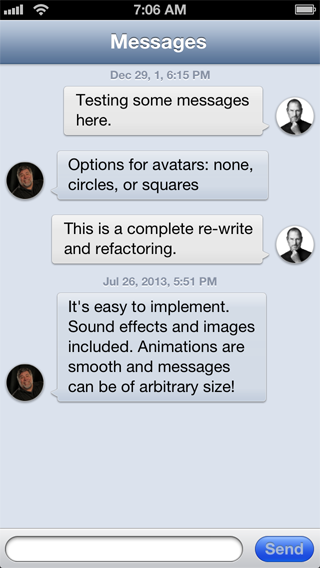
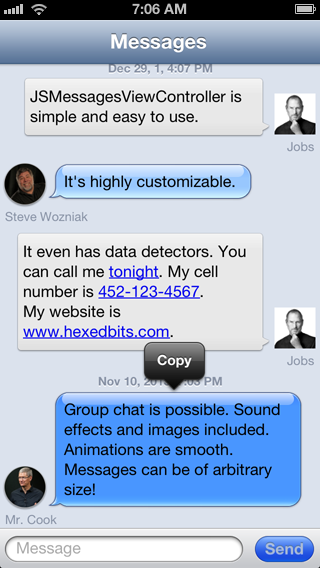
udpate README and screenshots.

diff --git a/README.md b/README.md
@@ -133,5 +133,5 @@ THE SOFTWARE IS PROVIDED "AS IS", WITHOUT WARRANTY OF ANY KIND, EXPRESS OR IMPLI
 
 [ss]:https://github.com/soffes/ssmessagesviewcontroller
 
-[img1]:https://raw.github.com/jessesquires/MessagesTableViewController/master/Screenshots/iphone5-screenshot0.png
+[img1]:https://raw.github.com/jessesquires/MessagesTableViewController/master/Screenshots/iphone5-screenshot5.png
 [img2]:https://raw.github.com/jessesquires/MessagesTableViewController/master/Screenshots/iphone5-screenshot2.png
